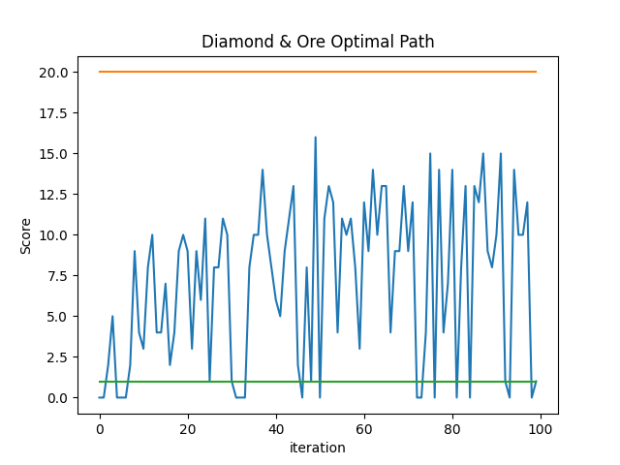
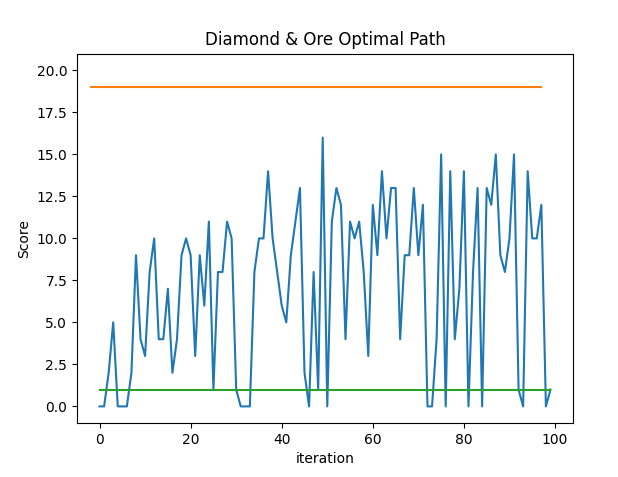
added video link and fixed status graph

Changed region(s): [[0.0307, 0.0602, 0.9223, 0.9935]]

diff --git a/docs/status.md b/docs/status.md
@@ -6,7 +6,7 @@ title:  Proposal
 # {{ page.title }}
 
 ## Video Summary
-<!-- <iframe width="854" height="480" src="TODO" frameborder="0" allow="accelerometer; autoplay; clipboard-write; encrypted-media; gyroscope; picture-in-picture" allowfullscreen></iframe> -->
+<iframe width="854" height="480" src="https://youtu.be/0GCA_a-loek" frameborder="0" allow="accelerometer; autoplay; clipboard-write; encrypted-media; gyroscope; picture-in-picture" allowfullscreen></iframe>
 
 
 ## Summary of Project
